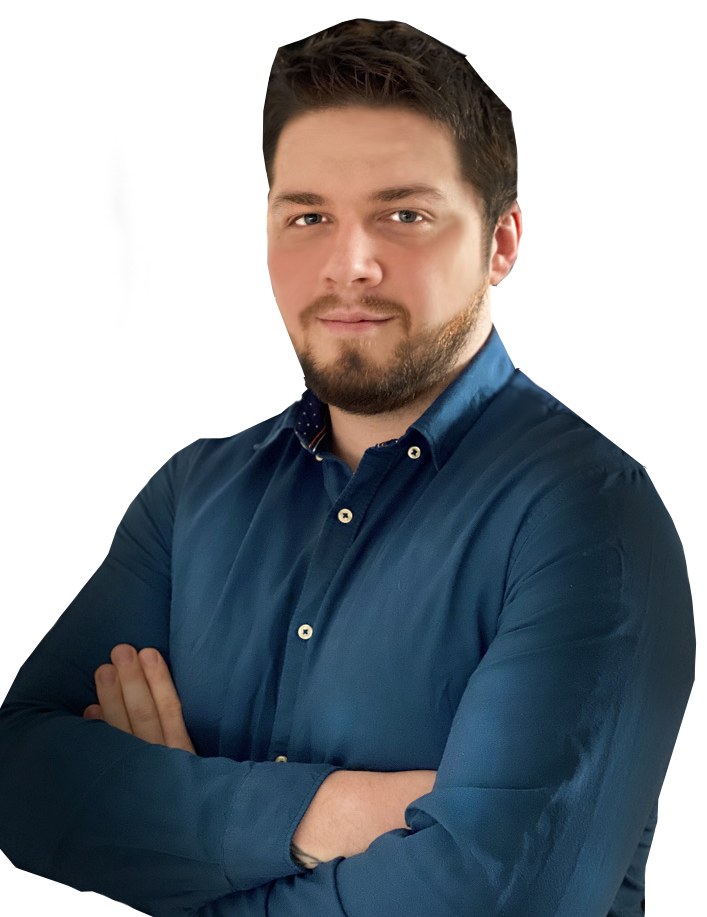
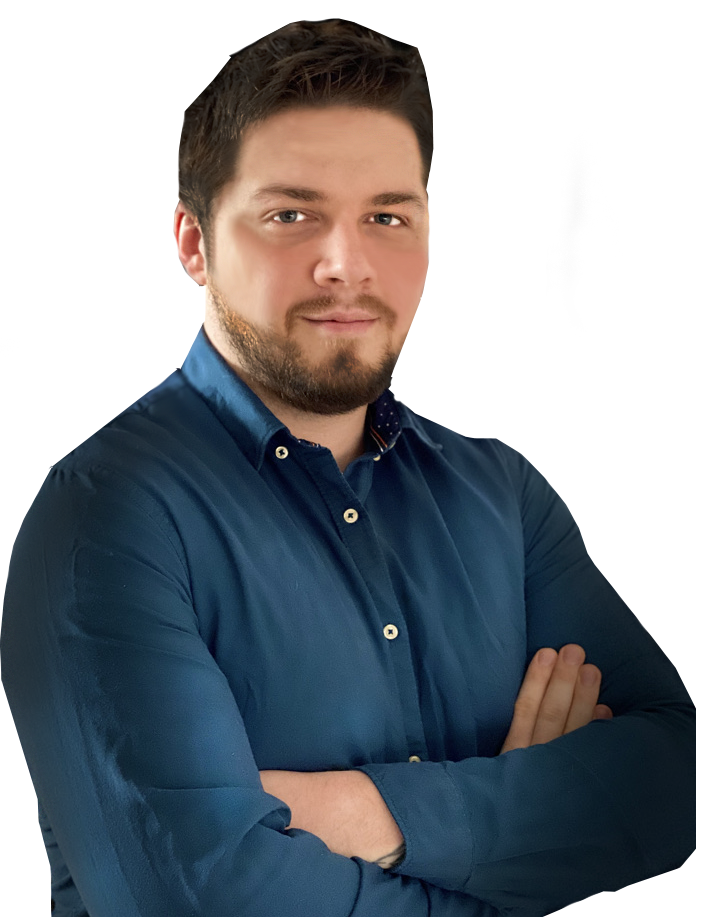
fix

diff --git a/index.html b/index.html
@@ -31,16 +31,18 @@
       <img src="./images/background1.png" id="back1" />
     </section>
     <div class="content" id="content">
+      <span id="one"></span>
       <div class="about">
-        <p>
-          Trochę o mnie<br />
-          <span id="one"></span>
-          <img id="myphoto" src="./images/photo.png" alt="My photo" />
-          <br />
+        <div>Trochę o mnie</div>
+        <div>
           Mam 27 lat, pasjonuję się kodowaniem, programowaniem oraz tworzeniem
           aplikacji, gier czy stron internetowych. Interesuje mnie zarówno
           front-end jak i back-end.
-          <br /><br />
+        </div>
+        <div>
+          <img id="myphoto" src="./images/photo.png" alt="My photo" />
+        </div>
+        <div>
           Moją naukę rozpocząłem od kursu "podstaw programowania", prowadzonego
           przez Deutsche Telekom. Następnie postanowiłem rozwijać swoją wiedzę w
           kierunku Front-End, poprzez liczną literaturę oraz kursy online.
@@ -53,15 +55,13 @@
           "Node.js".
           <br /><br />
           <img id="ikona" src="./images/c.png" alt="JavaScript" />
-          <img
-            id="ikona"
-            src="./images/nodejs.png"
-            alt="JavaScript"
-          /><br /><br />
+          <img id="ikona" src="./images/nodejs.png" alt="JavaScript" />
+        </div>
+        <div>
           Moim celem na najbliższy czas jest rozpoczęcie pracy w roli
           Junior-developera Front-End.<br />
           A przyszłości chciałbym osiągnąć status Full-stack developera.
-        </p>
+        </div>
       </div>
       <span id="two"></span>
       <div class="projects">
@@ -80,18 +80,15 @@
         </div>
         <div>Zbiór screenów</div>
       </div>
+      <span id="three"></span>
       <div class="cv">
-        <p>
-          Ponizej moje CV oraz certyfikaty<br />
-          <span id="three"></span>
-          <button>CV</button>
-        </p>
-        <br />
+        <div>Ponizej moje CV oraz certyfikaty:</div>
+        <div>CV</div>
       </div>
+      <span id="four"></span>
       <div class="contact">
-        <p>
-          Skontaktuj się ze mną!<br />
-          <span id="four"></span>
+        <div>Skontaktuj się ze mną!</div>
+        <div>
           <a
             href="https://www.linkedin.com/in/bartłomiej-kulbat-172953220/"
             target="_blank"
@@ -100,21 +97,23 @@
               alt="Linked In"
               style="height: 21px"
           /></a>
+        </div>
+        <div>
           <a href="https://github.com/BreaQ" target="_blank"
             ><img src="./images/github.png" alt="GitHub" style="height: 21px"
           /></a>
+        </div>
+        <div>
           <a href="mailto:b.kulbat@gmail.com"
-            ><img
-              src="./images/mail.png"
-              alt="SendMail"
-              style="height: 21px" /></a
-          ><br /><br /><br />
+            ><img src="./images/mail.png" alt="SendMail" style="height: 21px"
+          /></a>
+        </div>
+        <div>
           Dzięki za odwiedzenie mojego portfolio! Jezeli chcieliby Państwo mnie
           zatrudnić, napiszcie do mnie!<br />
           Oczywiście portfolio będzie się rozwijało, wraz z nabywaniem przeze
           mnie większego doświadczenia.
-        </p>
-        <br />
+        </div>
       </div>
     </div>
 

diff --git a/style.css b/style.css
@@ -1,7 +1,6 @@
 @import url("https://fonts.googleapis.com/css?family=Poppins:300,400,500,600,700,800,900&display=swap");
 * {
   margin: 0;
-  padding: 0;
   box-sizing: border-box;
   font-family: "Poppis", sans-serif;
   scroll-behavior: smooth;
@@ -118,11 +117,7 @@ section img#back3 {
   background: linear-gradient(#241533, #37163c);
   padding: 5% 15% 15% 15%;
 }
-/*
-.about {
-  height: 60vh;
-  width: 70vw;
-} */
+
 .about,
 .projects,
 .cv,
@@ -132,14 +127,13 @@ section img#back3 {
   border-radius: 2vh;
   margin-bottom: 20vh;
   color: white;
-  font-size: 2vh;
   box-shadow: 0.5vh 0.5vh 3vh black;
   display: grid;
   justify-items: center;
   align-items: center;
-  font-size: 1.5rem;
-  outline: none;
   text-align: center;
+  font-size: 2vh;
+  gap: 2vh;
 }
 .projects {
   grid-template-columns: repeat(3, auto);
@@ -149,7 +143,37 @@ section img#back3 {
 .projects :nth-child(5) {
   grid-column: span 3;
 }
-
+.about {
+  grid-template-columns: auto auto;
+  grid-template-rows: repeat (4, auto);
+}
+.about :nth-child(1),
+.about :nth-child(4),
+.about :nth-child(5) {
+  grid-column: span 2;
+}
+.about :nth-child(2) {
+  text-align: left;
+}
+.about :nth-child(3) {
+  grid-row: 3/2;
+}
+.cv {
+  grid-template-columns: 1fr;
+  grid-template-rows: 1fr 1fr;
+}
+.contact {
+  grid-template-columns: repeat(3, auto);
+  grid-template-rows: repeat (3, auto);
+}
+.contact :nth-child(1),
+.contact :nth-child(5) {
+  grid-column: span 3;
+}
+.contact img {
+  background: white;
+  border-radius: 0.5vh;
+}
 .table1 {
   position: fixed;
   top: 92%;
@@ -199,17 +223,8 @@ section img#back3 {
 #myphoto {
   background-color: rgba(0, 0, 0, 0.93);
   border-radius: 2vh;
-  float: right;
-  margin-left: 3vw;
-  margin-right: 2vw;
-  height: 50vh;
-}
-
-#one,
-#two,
-#three,
-#four {
-  padding-top: 15%;
+  height: 40vh;
+  opacity: 0.8;
 }
 
 /* jezyk */
